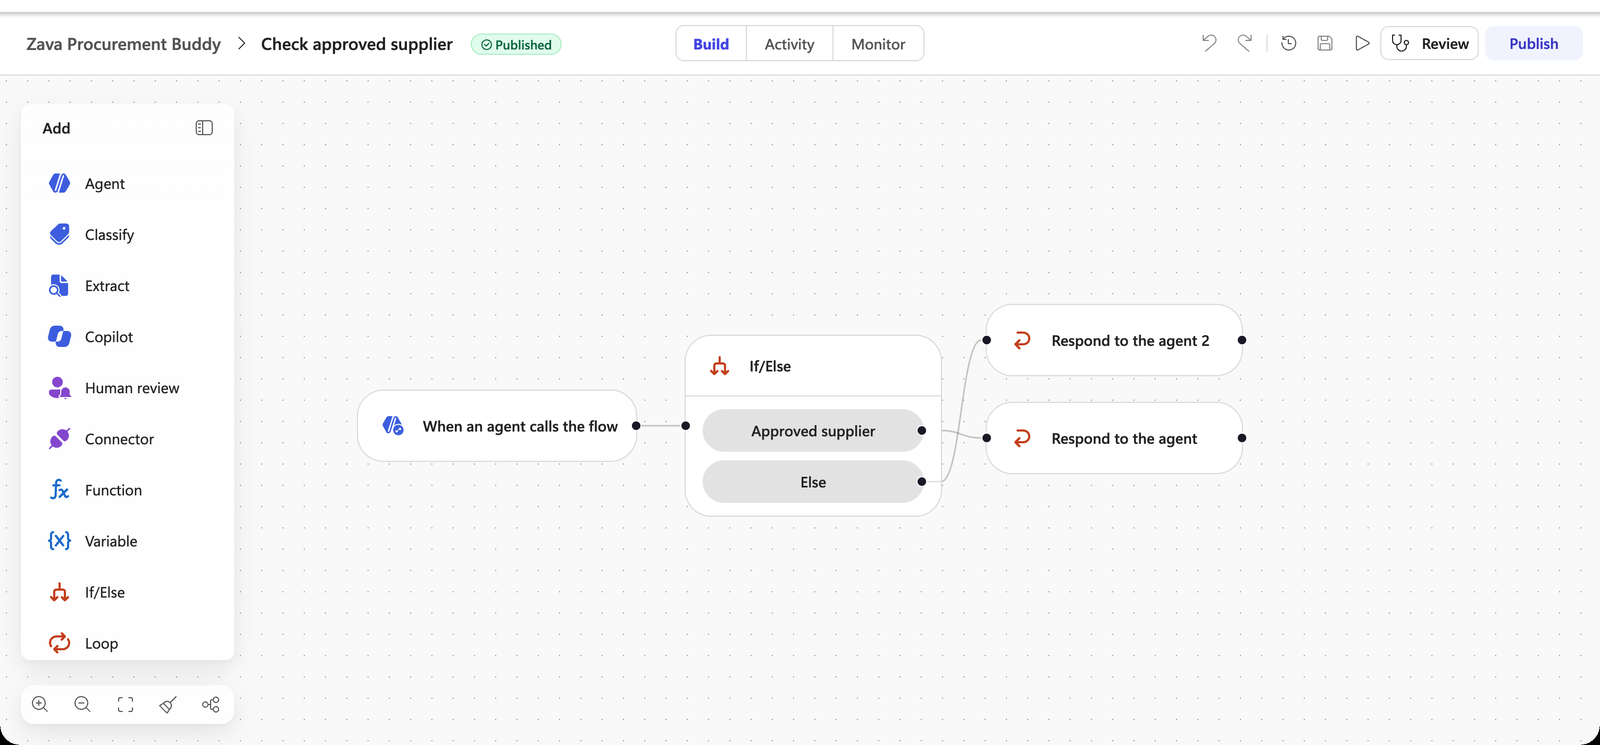
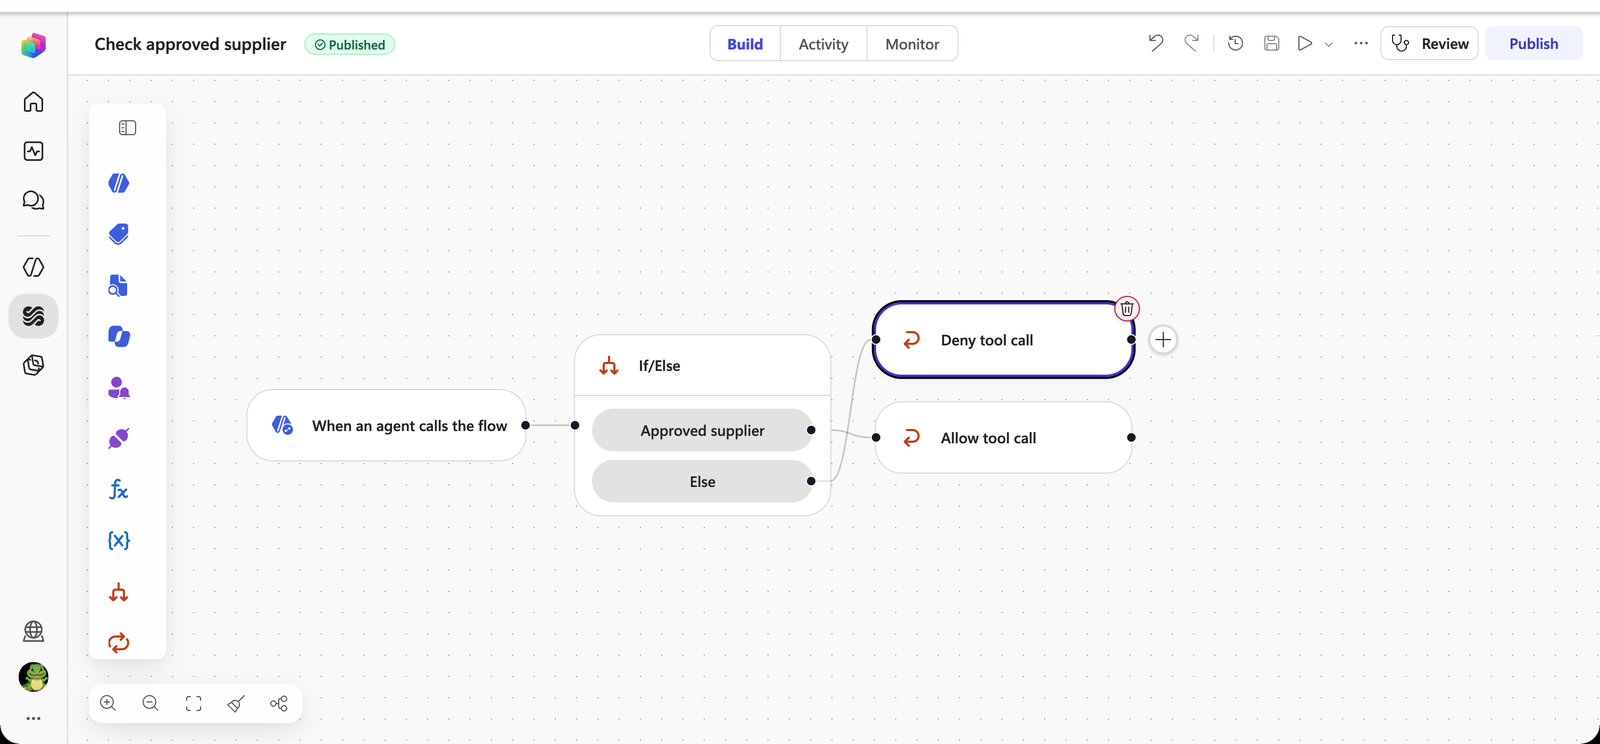
docs: explain two ways to create hook workflows and name Respond nodes
Copilot-Session: 06f2b719-4f00-4ad9-a62b-e9b8e82368d1

diff --git a/labs/mcs-hooks/README.md b/labs/mcs-hooks/README.md
@@ -85,6 +85,17 @@ In this lab you build **Zava Procurement Buddy** on the GitHub Copilot harness a
 | **Classify node** | An AI step in a workflow that routes text into categories you describe — a deterministic branch driven by a model judgement |
 | **Inline agent** | A non-deterministic agent embedded in a workflow step. Here it rewrites the prompt instead of following a fixed script |
 
+### Two ways to create a hook workflow
+
+Every hook workflow starts from the starter that the **Add hook** dialog generates for an event. The **Workflows** page cannot create one: its trigger types don't include hook events, and outputs you add by hand are always required, so the workflow never matches. What you can choose is *when* you connect the workflow to the hook:
+
+| Way | How | When to use it | In this lab |
+|-----|-----|----------------|-------------|
+| **Workflow first** | Generate the starter from **Add hook** → **New workflow**, build and publish it, then **Cancel** the dialog. The workflow is saved in **Workflows**. Later, create the hook and **select the existing workflow** in the **Workflow** list | One workflow serves several hooks or agents, or one person builds the workflow and another configures the agent | Use Case #1 |
+| **Native (inline)** | **Add hook** → **New workflow**, build and publish, and the dialog binds the new workflow to the hook in one go | A workflow built for a single hook | Use Cases #2 and #3 |
+
+Either way, the **Workflow** list only shows workflows whose inputs and outputs match the selected event.
+
 ---
 
 ## 📄 Documentation and Additional Training Links
@@ -222,22 +233,22 @@ The tool does not reach a real system. It returns a made-up purchase request num
 
     ![Create purchase request listed under Tools](images/uc1-tool-added.png)
 
-#### Add the Start (pre-loop) hook
+#### Build the hook workflow first
+
+In this use case you build the workflow first and connect it to the hook afterwards: the *workflow first* way from [Two ways to create a hook workflow](#two-ways-to-create-a-hook-workflow). You still start in the **Add hook** dialog, because only that dialog generates a starter that fits a hook event.
 
 1. On the top menu bar, next to **Monitor**, select the three dots (**…**) → **Hooks** → **Create**.
 
-1. Set **Event type** to **Start (pre-loop)** and **Name** to:
-
-    ```text
-    Load requester context
-    ```
-
-1. Open the **Workflow** dropdown and select **New workflow**. The designer opens with a starter workflow: **When an agent calls the flow** already carries the `event`, `timestamp` and `metadata` inputs, and **Respond to the agent** already carries the `additionalContext` output.
+1. Set **Event type** to **Start (pre-loop)**. Open the **Workflow** dropdown and select **New workflow**. The designer opens with a starter workflow: **When an agent calls the flow** already carries the `event`, `timestamp` and `metadata` inputs, and **Respond to the agent** already carries the `additionalContext` output.
 
     > [!TIP]
     > Keep the starter input and output names exactly as they are, and do not add outputs. If you rename, remove or add fields, the workflow no longer matches the event and disappears from the hook's **Workflow** list.
 
-1. Select **Respond to the agent** and paste this into `additionalContext`:
+1. Select the workflow title **Untitled workflow** and rename it to `Load requester context`.
+
+1. Select **Respond to the agent**, select its name at the top of the panel and rename it to `Return requester context`. Node names are only labels: renaming them does not affect whether the workflow fits the hook.
+
+1. On **Return requester context**, paste this into `additionalContext`:
 
     ```text
     The SessionStart hook was executed, print this as output with lots of smileys, include the user object ID: 
@@ -245,9 +256,23 @@ The tool does not reach a real system. It returns a made-up purchase request num
 
 1. With the cursor at the end of the text, type **`/`** to open the dynamic content picker and select `metadata` → `userAadObjectId`. It appears as a token after the text.
 
-1. **Publish** the workflow and close the designer. Back on **Add hook**, select **Load requester context** in **Workflow** if it is not already selected. Select **Done**, then **Save** the agent.
+1. **Publish** the workflow and close the designer.
 
     ![Load requester context workflow with userAadObjectId in additionalContext](images/uc1-sessionstart-workflow.png)
+
+1. Back on **Add hook**, select **Cancel**. The hook is not added, but the published workflow is saved: you'll find **Load requester context** on the **Workflows** page.
+
+#### Connect the workflow to the hook
+
+1. Open **…** → **Hooks** → **Create** again. Set **Event type** to **Start (pre-loop)** and **Name** to:
+
+    ```text
+    Load requester context
+    ```
+
+1. Open the **Workflow** dropdown. **Load requester context** is listed because its inputs and outputs match the Start (pre-loop) event. Select it, then select **Done** and **Save** the agent.
+
+    ![Add hook dialog with the existing Load requester context workflow selected](images/uc1-hook-select-existing.png)
 
 #### Test it
 
@@ -306,9 +331,12 @@ Add a **User prompt submitted** hook whose workflow classifies every prompt. Pro
 
 1. In **Workflow**, select **New workflow**. The starter workflow receives `prompt` and returns `modifiedPrompt` and `suppressOutput`.
 
+    > [!NOTE]
+    > This time you use the *native* way from [Two ways to create a hook workflow](#two-ways-to-create-a-hook-workflow): you build the workflow from inside the hook dialog, and publishing binds it to the hook in one go.
+
 #### Classify the prompt
 
-1. Select **When an agent calls the flow**, then select **Classify** in the **Add** panel. The Classify node is inserted between the trigger and **Respond to the agent**. Set the text to classify to `prompt` from the dynamic content picker (type **`/`**).
+1. Select **When an agent calls the flow**, then select **Classify** in the **Add** panel. The Classify node is inserted between the trigger and the starter **Respond to the agent** node. Set the text to classify to `prompt` from the dynamic content picker (type **`/`**).
 
 1. Name the first category `No PII` with this description:
 
@@ -339,12 +367,14 @@ Add a **User prompt submitted** hook whose workflow classifies every prompt. Pro
 
 #### Pass clean prompts through
 
-1. Make sure the **No PII** branch is connected to **Respond to the agent**. Then drag the connection point of **Other** onto **Respond to the agent** as well.
+1. Select the starter **Respond to the agent** node, select its name at the top of the panel and rename it to `Return original prompt`.
 
-1. Select **Respond to the agent** and set `modifiedPrompt` to `prompt` from the dynamic content picker. Leave `suppressOutput` empty.
+1. Make sure the **No PII** branch is connected to **Return original prompt**. Then drag the connection point of **Other** onto **Return original prompt** as well.
+
+1. Select **Return original prompt** and set `modifiedPrompt` to `prompt` from the dynamic content picker. Leave `suppressOutput` empty.
 
     > [!IMPORTANT]
-    > Do not leave `modifiedPrompt` empty here, and wire **every** branch. If no **Respond to the agent** runs, the workflow run can still show *Succeeded*, but the hook reports that it could not be executed and the agent carries on as if there were no hook. When in doubt, open the workflow's **Activity** tab, select the run and check which nodes were skipped.
+    > Do not leave `modifiedPrompt` empty here, and wire **every** branch. If no Respond node runs, the workflow run can still show *Succeeded*, but the hook reports that it could not be executed and the agent carries on as if there were no hook. When in doubt, open the workflow's **Activity** tab, select the run and check which nodes were skipped.
 
 #### Redact with an inline agent
 
@@ -365,16 +395,18 @@ Add a **User prompt submitted** hook whose workflow classifies every prompt. Pro
     Text:
     ```
 
-1. Select **Respond to the agent**, copy it (**Ctrl+C** / **Cmd+C**) and paste it (**Ctrl+V** / **Cmd+V**). The copy, **Respond to the agent 2**, has the same outputs as the starter. Drag the output connection point of **Redact PII** onto it.
+1. Select **Return original prompt**, copy it (**Ctrl+C** / **Cmd+C**) and paste it (**Ctrl+V** / **Cmd+V**). The copy has the same outputs as the starter. Rename it to `Return redacted prompt` and drag the output connection point of **Redact PII** onto it.
 
     > [!TIP]
+    > **Why two Respond nodes?** A Respond node returns fixed values, so every *different* answer needs its own node. Branches that return the same answer share one: **No PII** and **Other** both go to **Return original prompt**. Name each node after the answer it gives, so the canvas reads as the decision.
+    >
     > Copy the starter node rather than adding a new **Respond to the agent** from the panel. Outputs you add yourself are marked required, every Respond node in a workflow must return the same schema, and a mismatch makes the workflow incompatible with the hook.
 
-1. On **Respond to the agent 2**, set `modifiedPrompt` to **Agent Response** of **Redact PII** from the dynamic content picker.
+1. On **Return redacted prompt**, set `modifiedPrompt` to **Agent Response** of **Redact PII** from the dynamic content picker.
 
 1. **Publish** the workflow and close the designer. Select the workflow in **Workflow** if needed, select **Done**, then **Save** the agent.
 
-    ![Redact personal data workflow: Classify branches, Redact PII and both Respond nodes](images/uc2-redaction-workflow.png)
+    ![Redact personal data workflow: Classify branches, Redact PII, Return original prompt and Return redacted prompt](images/uc2-redaction-workflow.png)
 
 #### Test it
 
@@ -441,13 +473,15 @@ Add a **Pre tool use** hook scoped to **Create purchase request**. Its workflow 
     Check approved supplier
     ```
 
-1. In **Workflow**, select **New workflow**. The starter workflow receives `event`, `timestamp`, `toolName`, `parameters` and `metadata`, and returns `permissionDecision`, `permissionDecisionReason`, `modifiedParameters`, `additionalContext` and `suppressOutput` — all optional.
+1. In **Workflow**, select **New workflow**. The starter workflow receives `event`, `timestamp`, `toolName`, `parameters` and `metadata`, and returns `permissionDecision`, `permissionDecisionReason`, `modifiedParameters`, `additionalContext` and `suppressOutput` — all optional. Like Use Case #2, this is the *native* way: the workflow is built from the hook dialog and bound to it when you publish.
 
     ![Add hook dialog with Pre tool use and the Create purchase request tool](images/uc3-add-hook.png)
 
+    ![Pre tool use starter workflow: the Respond node with its five optional outputs](images/uc3-starter-workflow.png)
+
 #### Check the supplier
 
-1. Select **When an agent calls the flow**, then select **If/Else** in the **Add** panel. The If/Else node is inserted between the trigger and **Respond to the agent**; the starter Respond is connected to its first branch.
+1. Select **When an agent calls the flow**, then select **If/Else** in the **Add** panel. The If/Else node is inserted between the trigger and the starter **Respond to the agent** node, which is connected to its first branch.
 
 1. Select the If/Else node. Rename the first branch to `Approved supplier`.
 
@@ -469,11 +503,11 @@ Add a **Pre tool use** hook scoped to **Create purchase request**. Its workflow 
 
 #### Return the decision
 
-1. The **Approved supplier** branch already leads to **Respond to the agent**. Leave **every output empty**. Empty means *allow*: the tool runs with its original parameters.
+1. The **Approved supplier** branch already leads to the starter **Respond to the agent** node. Rename it to `Allow tool call` and leave **every output empty**. Empty means *allow*: the tool runs with its original parameters.
 
-1. Select **Respond to the agent**, copy it (**Ctrl+C** / **Cmd+C**) and paste it (**Ctrl+V** / **Cmd+V**). Drag the **Else** connection point of the If/Else onto the copy, **Respond to the agent 2**.
+1. Select **Allow tool call**, copy it (**Ctrl+C** / **Cmd+C**) and paste it (**Ctrl+V** / **Cmd+V**). Rename the copy to `Deny tool call` and drag the **Else** connection point of the If/Else onto it. As in Use Case #2, each decision gets its own Respond node because each returns different values.
 
-1. On **Respond to the agent 2**, set:
+1. On **Deny tool call**, set:
 
     | Output | Value |
     |--------|-------|
@@ -485,7 +519,7 @@ Add a **Pre tool use** hook scoped to **Create purchase request**. Its workflow 
 
 1. **Publish** the workflow and close the designer. Select the workflow in **Workflow** if needed, select **Done**, then **Save** the agent.
 
-    ![Check approved supplier workflow: If/Else with an allow and a deny Respond node](images/uc3-pretool-workflow.png)
+    ![Check approved supplier workflow: If/Else with Allow tool call and Deny tool call](images/uc3-pretool-workflow.png)
 
 1. Open **…** → **Hooks**. All three hooks are listed.
 

diff --git a/_labs/mcs-hooks.md b/_labs/mcs-hooks.md
@@ -99,6 +99,17 @@ In this lab you build **Zava Procurement Buddy** on the GitHub Copilot harness a
 | **Classify node** | An AI step in a workflow that routes text into categories you describe — a deterministic branch driven by a model judgement |
 | **Inline agent** | A non-deterministic agent embedded in a workflow step. Here it rewrites the prompt instead of following a fixed script |
 
+### Two ways to create a hook workflow
+
+Every hook workflow starts from the starter that the **Add hook** dialog generates for an event. The **Workflows** page cannot create one: its trigger types don't include hook events, and outputs you add by hand are always required, so the workflow never matches. What you can choose is *when* you connect the workflow to the hook:
+
+| Way | How | When to use it | In this lab |
+|-----|-----|----------------|-------------|
+| **Workflow first** | Generate the starter from **Add hook** → **New workflow**, build and publish it, then **Cancel** the dialog. The workflow is saved in **Workflows**. Later, create the hook and **select the existing workflow** in the **Workflow** list | One workflow serves several hooks or agents, or one person builds the workflow and another configures the agent | Use Case #1 |
+| **Native (inline)** | **Add hook** → **New workflow**, build and publish, and the dialog binds the new workflow to the hook in one go | A workflow built for a single hook | Use Cases #2 and #3 |
+
+Either way, the **Workflow** list only shows workflows whose inputs and outputs match the selected event.
+
 ---
 
 ## Documentation and Additional Training Links
@@ -236,22 +247,22 @@ The tool does not reach a real system. It returns a made-up purchase request num
 
     ![Create purchase request listed under Tools](images/uc1-tool-added.png)
 
-#### Add the Start (pre-loop) hook
+#### Build the hook workflow first
+
+In this use case you build the workflow first and connect it to the hook afterwards: the *workflow first* way from [Two ways to create a hook workflow](#two-ways-to-create-a-hook-workflow). You still start in the **Add hook** dialog, because only that dialog generates a starter that fits a hook event.
 
 1. On the top menu bar, next to **Monitor**, select the three dots (**…**) → **Hooks** → **Create**.
 
-1. Set **Event type** to **Start (pre-loop)** and **Name** to:
-
-    ```text
-    Load requester context
-    ```
-
-1. Open the **Workflow** dropdown and select **New workflow**. The designer opens with a starter workflow: **When an agent calls the flow** already carries the `event`, `timestamp` and `metadata` inputs, and **Respond to the agent** already carries the `additionalContext` output.
+1. Set **Event type** to **Start (pre-loop)**. Open the **Workflow** dropdown and select **New workflow**. The designer opens with a starter workflow: **When an agent calls the flow** already carries the `event`, `timestamp` and `metadata` inputs, and **Respond to the agent** already carries the `additionalContext` output.
 
     > [!TIP]
     > Keep the starter input and output names exactly as they are, and do not add outputs. If you rename, remove or add fields, the workflow no longer matches the event and disappears from the hook's **Workflow** list.
 
-1. Select **Respond to the agent** and paste this into `additionalContext`:
+1. Select the workflow title **Untitled workflow** and rename it to `Load requester context`.
+
+1. Select **Respond to the agent**, select its name at the top of the panel and rename it to `Return requester context`. Node names are only labels: renaming them does not affect whether the workflow fits the hook.
+
+1. On **Return requester context**, paste this into `additionalContext`:
 
     ```text
     The SessionStart hook was executed, print this as output with lots of smileys, include the user object ID: 
@@ -259,9 +270,23 @@ The tool does not reach a real system. It returns a made-up purchase request num
 
 1. With the cursor at the end of the text, type **`/`** to open the dynamic content picker and select `metadata` → `userAadObjectId`. It appears as a token after the text.
 
-1. **Publish** the workflow and close the designer. Back on **Add hook**, select **Load requester context** in **Workflow** if it is not already selected. Select **Done**, then **Save** the agent.
+1. **Publish** the workflow and close the designer.
 
     ![Load requester context workflow with userAadObjectId in additionalContext](images/uc1-sessionstart-workflow.png)
+
+1. Back on **Add hook**, select **Cancel**. The hook is not added, but the published workflow is saved: you'll find **Load requester context** on the **Workflows** page.
+
+#### Connect the workflow to the hook
+
+1. Open **…** → **Hooks** → **Create** again. Set **Event type** to **Start (pre-loop)** and **Name** to:
+
+    ```text
+    Load requester context
+    ```
+
+1. Open the **Workflow** dropdown. **Load requester context** is listed because its inputs and outputs match the Start (pre-loop) event. Select it, then select **Done** and **Save** the agent.
+
+    ![Add hook dialog with the existing Load requester context workflow selected](images/uc1-hook-select-existing.png)
 
 #### Test it
 
@@ -320,9 +345,12 @@ Add a **User prompt submitted** hook whose workflow classifies every prompt. Pro
 
 1. In **Workflow**, select **New workflow**. The starter workflow receives `prompt` and returns `modifiedPrompt` and `suppressOutput`.
 
+    > [!NOTE]
+    > This time you use the *native* way from [Two ways to create a hook workflow](#two-ways-to-create-a-hook-workflow): you build the workflow from inside the hook dialog, and publishing binds it to the hook in one go.
+
 #### Classify the prompt
 
-1. Select **When an agent calls the flow**, then select **Classify** in the **Add** panel. The Classify node is inserted between the trigger and **Respond to the agent**. Set the text to classify to `prompt` from the dynamic content picker (type **`/`**).
+1. Select **When an agent calls the flow**, then select **Classify** in the **Add** panel. The Classify node is inserted between the trigger and the starter **Respond to the agent** node. Set the text to classify to `prompt` from the dynamic content picker (type **`/`**).
 
 1. Name the first category `No PII` with this description:
 
@@ -353,12 +381,14 @@ Add a **User prompt submitted** hook whose workflow classifies every prompt. Pro
 
 #### Pass clean prompts through
 
-1. Make sure the **No PII** branch is connected to **Respond to the agent**. Then drag the connection point of **Other** onto **Respond to the agent** as well.
+1. Select the starter **Respond to the agent** node, select its name at the top of the panel and rename it to `Return original prompt`.
 
-1. Select **Respond to the agent** and set `modifiedPrompt` to `prompt` from the dynamic content picker. Leave `suppressOutput` empty.
+1. Make sure the **No PII** branch is connected to **Return original prompt**. Then drag the connection point of **Other** onto **Return original prompt** as well.
+
+1. Select **Return original prompt** and set `modifiedPrompt` to `prompt` from the dynamic content picker. Leave `suppressOutput` empty.
 
     > [!IMPORTANT]
-    > Do not leave `modifiedPrompt` empty here, and wire **every** branch. If no **Respond to the agent** runs, the workflow run can still show *Succeeded*, but the hook reports that it could not be executed and the agent carries on as if there were no hook. When in doubt, open the workflow's **Activity** tab, select the run and check which nodes were skipped.
+    > Do not leave `modifiedPrompt` empty here, and wire **every** branch. If no Respond node runs, the workflow run can still show *Succeeded*, but the hook reports that it could not be executed and the agent carries on as if there were no hook. When in doubt, open the workflow's **Activity** tab, select the run and check which nodes were skipped.
 
 #### Redact with an inline agent
 
@@ -379,16 +409,18 @@ Add a **User prompt submitted** hook whose workflow classifies every prompt. Pro
     Text:
     ```
 
-1. Select **Respond to the agent**, copy it (**Ctrl+C** / **Cmd+C**) and paste it (**Ctrl+V** / **Cmd+V**). The copy, **Respond to the agent 2**, has the same outputs as the starter. Drag the output connection point of **Redact PII** onto it.
+1. Select **Return original prompt**, copy it (**Ctrl+C** / **Cmd+C**) and paste it (**Ctrl+V** / **Cmd+V**). The copy has the same outputs as the starter. Rename it to `Return redacted prompt` and drag the output connection point of **Redact PII** onto it.
 
     > [!TIP]
+    > **Why two Respond nodes?** A Respond node returns fixed values, so every *different* answer needs its own node. Branches that return the same answer share one: **No PII** and **Other** both go to **Return original prompt**. Name each node after the answer it gives, so the canvas reads as the decision.
+    >
     > Copy the starter node rather than adding a new **Respond to the agent** from the panel. Outputs you add yourself are marked required, every Respond node in a workflow must return the same schema, and a mismatch makes the workflow incompatible with the hook.
 
-1. On **Respond to the agent 2**, set `modifiedPrompt` to **Agent Response** of **Redact PII** from the dynamic content picker.
+1. On **Return redacted prompt**, set `modifiedPrompt` to **Agent Response** of **Redact PII** from the dynamic content picker.
 
 1. **Publish** the workflow and close the designer. Select the workflow in **Workflow** if needed, select **Done**, then **Save** the agent.
 
-    ![Redact personal data workflow: Classify branches, Redact PII and both Respond nodes](images/uc2-redaction-workflow.png)
+    ![Redact personal data workflow: Classify branches, Redact PII, Return original prompt and Return redacted prompt](images/uc2-redaction-workflow.png)
 
 #### Test it
 
@@ -455,13 +487,15 @@ Add a **Pre tool use** hook scoped to **Create purchase request**. Its workflow 
     Check approved supplier
     ```
 
-1. In **Workflow**, select **New workflow**. The starter workflow receives `event`, `timestamp`, `toolName`, `parameters` and `metadata`, and returns `permissionDecision`, `permissionDecisionReason`, `modifiedParameters`, `additionalContext` and `suppressOutput` — all optional.
+1. In **Workflow**, select **New workflow**. The starter workflow receives `event`, `timestamp`, `toolName`, `parameters` and `metadata`, and returns `permissionDecision`, `permissionDecisionReason`, `modifiedParameters`, `additionalContext` and `suppressOutput` — all optional. Like Use Case #2, this is the *native* way: the workflow is built from the hook dialog and bound to it when you publish.
 
     ![Add hook dialog with Pre tool use and the Create purchase request tool](images/uc3-add-hook.png)
 
+    ![Pre tool use starter workflow: the Respond node with its five optional outputs](images/uc3-starter-workflow.png)
+
 #### Check the supplier
 
-1. Select **When an agent calls the flow**, then select **If/Else** in the **Add** panel. The If/Else node is inserted between the trigger and **Respond to the agent**; the starter Respond is connected to its first branch.
+1. Select **When an agent calls the flow**, then select **If/Else** in the **Add** panel. The If/Else node is inserted between the trigger and the starter **Respond to the agent** node, which is connected to its first branch.
 
 1. Select the If/Else node. Rename the first branch to `Approved supplier`.
 
@@ -483,11 +517,11 @@ Add a **Pre tool use** hook scoped to **Create purchase request**. Its workflow 
 
 #### Return the decision
 
-1. The **Approved supplier** branch already leads to **Respond to the agent**. Leave **every output empty**. Empty means *allow*: the tool runs with its original parameters.
+1. The **Approved supplier** branch already leads to the starter **Respond to the agent** node. Rename it to `Allow tool call` and leave **every output empty**. Empty means *allow*: the tool runs with its original parameters.
 
-1. Select **Respond to the agent**, copy it (**Ctrl+C** / **Cmd+C**) and paste it (**Ctrl+V** / **Cmd+V**). Drag the **Else** connection point of the If/Else onto the copy, **Respond to the agent 2**.
+1. Select **Allow tool call**, copy it (**Ctrl+C** / **Cmd+C**) and paste it (**Ctrl+V** / **Cmd+V**). Rename the copy to `Deny tool call` and drag the **Else** connection point of the If/Else onto it. As in Use Case #2, each decision gets its own Respond node because each returns different values.
 
-1. On **Respond to the agent 2**, set:
+1. On **Deny tool call**, set:
 
     | Output | Value |
     |--------|-------|
@@ -499,7 +533,7 @@ Add a **Pre tool use** hook scoped to **Create purchase request**. Its workflow 
 
 1. **Publish** the workflow and close the designer. Select the workflow in **Workflow** if needed, select **Done**, then **Save** the agent.
 
-    ![Check approved supplier workflow: If/Else with an allow and a deny Respond node](images/uc3-pretool-workflow.png)
+    ![Check approved supplier workflow: If/Else with Allow tool call and Deny tool call](images/uc3-pretool-workflow.png)
 
 1. Open **…** → **Hooks**. All three hooks are listed.
 
